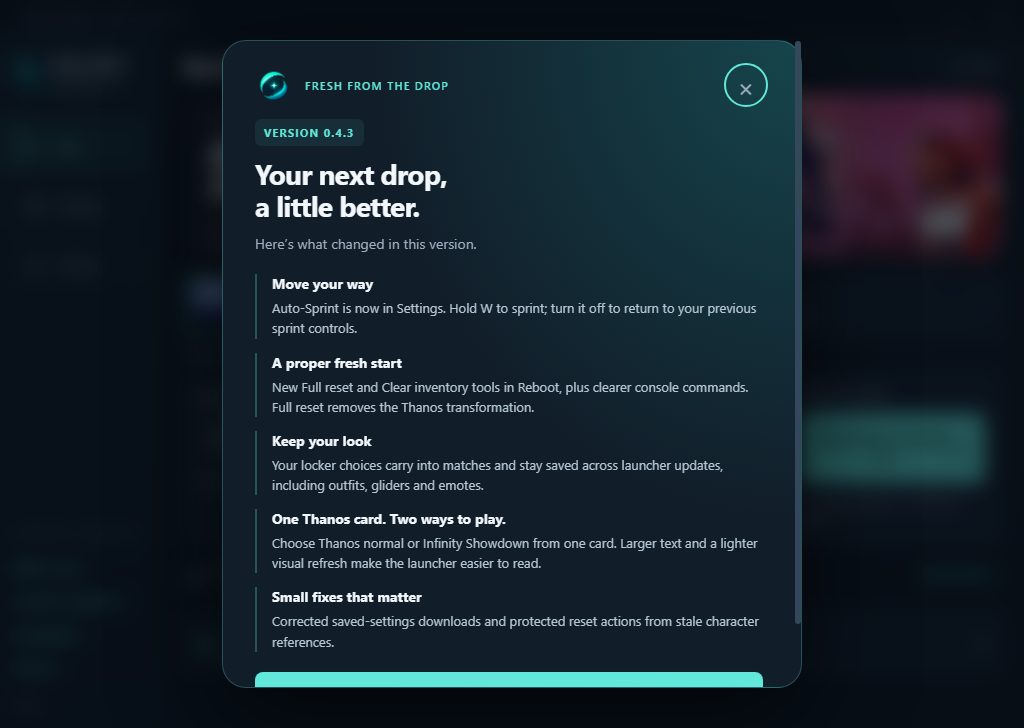
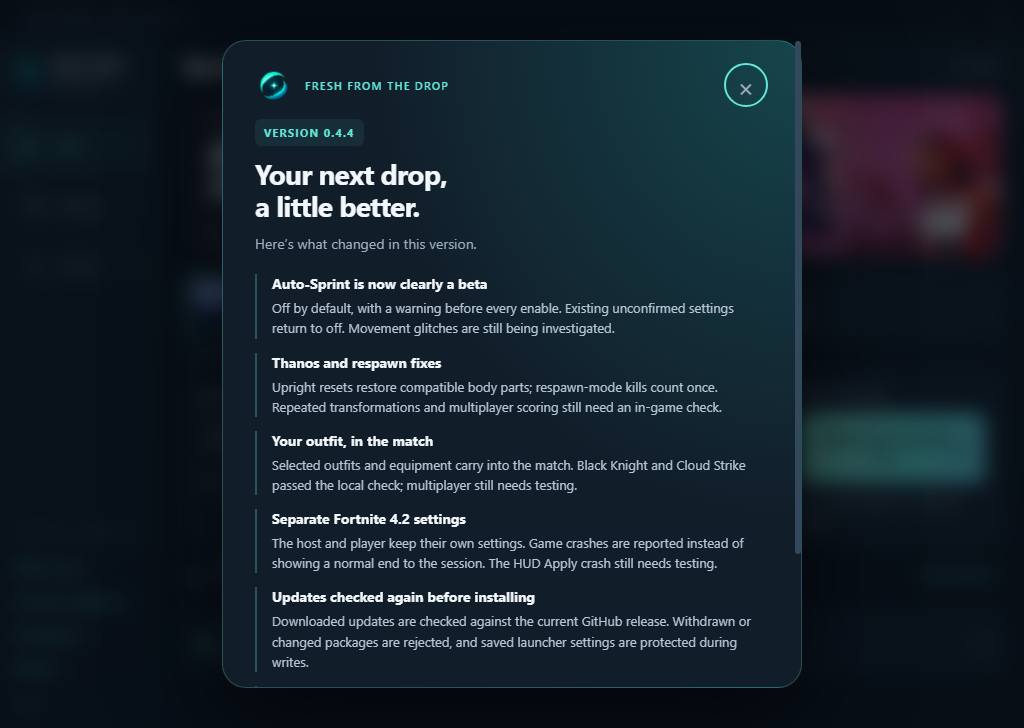
Record verified 0.4.4 packages and refresh test previews

diff --git a/AUDIT_044.md b/AUDIT_044.md
@@ -12,10 +12,10 @@ User objective (2026-11-04): review the existing launcher and gameplay code broa
 | Auto-Sprint movement/input audit | Owner confirms normal movement with feature off. Earlier correction remained unsuccessful. Original 4.2 input config binds F6 to HotbarKeyF6 and PickerNull; current correction reserves default-unbound F12 and checks custom conflicts. Helper/input restoration checks pass. Live movement remains unverified. |
 | Thanos transformation and repeated reset | Native commit `ccabd36` uses upright yaw-only reset/teleport transforms, resolves complete compatible parts before applying them, retains the last valid normal snapshot, guards stale possession acknowledgements and verifies Gauntlet cleanup. Compilation and both native rules suites passed. Independent review found no actionable regression. Repeated in-game transform/reset verification is still required. |
 | HUD Scale / Apply crash | Original video and minidump preserved locally; executable RVA 0x18c16c9 reads an array with index 0x7fffffff. Dump omits originating heap objects; cause not established. Per-role 4.2 settings preparation is code-tested, but the game's `-UserDir` behavior and the HUD crash remain live-unverified. Compare with Auto-Sprint off before attributing a fix. |
-| Broader launcher correctness review | Reviewed updater, download/session lifecycle, process cleanup, backend and persistence. Implemented current-release/checksum revalidation before cached-update installation, exact installer process-identity checks, atomic preference writes and durable errors on write failures. Unexpected game exits surface as errors; optional sprint-helper failure leaves the game running. Regression tests pass; final package validation is pending. |
+| Broader launcher correctness review | Reviewed updater, download/session lifecycle, process cleanup, backend and persistence. Implemented current-release/checksum revalidation before cached-update installation, exact installer process-identity checks, atomic preference writes and durable errors on write failures. Unexpected game exits surface as errors; optional sprint-helper failure leaves the game running. Regression tests and final package/update validation pass; live gameplay remains pending. |
 | Improve design/clarity | Implemented clearer Settings/selection styling with restrained teal highlights; larger text, existing logo, shared Thanos selector and rounded changelog retained. Choosing Showdown preserves Solo. Ordinary Thanos copy does not promise a falling animation. Hidden previews visually inspected; 19 UI tests pass. Research references are recorded below. |
 | Retain confirmed behavior | Clear inventory and practice respawn were confirmed on earlier builds; recheck after the native pose/loadout changes. Keep the existing 20-second random Showdown reassignment including all ready players. The separate bot prototype remains excluded. |
-| Build, source and release verification | Current local suite: 82 Node/native-helper checks and 19 hidden UI tests passed. Native CI `41856450087` succeeded for `ccabd36`; artifact and DLL checksums verified and pinned. Final combined desktop CI/package evidence and owner gameplay confirmation remain pending. Stable release is still 0.4.2. |
+| Build, source and release verification | 82 Node/native-helper checks and 19 UI tests passed locally and in final desktop CI `41857658000` for `b8d4f18`. Native CI `41856450087` succeeded for `ccabd36`; DLL, archive and both EXE checksums are verified. Portable/NSIS startup and real upgrades passed. Owner gameplay confirmation remains pending. Stable release is still 0.4.2. |
 
 ## Verified artifacts and checks
 
@@ -24,8 +24,8 @@ User objective (2026-11-04): review the existing launcher and gameplay code broa
[1 lines of base64/hex data omitted]
 - `npm test`: **82/82 passed** on the final Windows rerun. The initial restricted run could not access a test fixture and was rerun with suitable filesystem access. The actual launch script is exercised using hidden harmless child processes with exit codes 0/7, including after an input-helper failure; process-handle retention fixes a verified PowerShell exit-status regression.
 - Hidden Electron regression suite: **19/19 passed**, 24.2 seconds, against the latest main-process changes. Beta consent, legacy migration, failed-save recovery, updates, mode selection, session/cancellation behavior and window-size layouts are covered. Home and Beta-dialog screenshots were inspected.
-- Earlier candidate `4079533` desktop workflow `41705646257` is historical evidence only. It does not validate the final current package. Final combined desktop CI, staged-payload checks and EXE provenance must be recorded separately before publication.
-- Combined launcher source `b59819be28f978f195da7ea4c949a0eab963c6c1` passed [desktop workflow 41854090367](https://github.com/UniverseMan12/Nova_launcher_4.2/actions/runs/41854090367): 82 code checks, 19 UI tests, 861 staged files, packaged/portable startup and real 0.4.2 → 0.4.4 portable/NSIS upgrades. This is interim package evidence; the subsequent native kill-credit/status follow-up still needs to be included in the final package.
+- Earlier candidate `4079533` desktop workflow `41705646257` is historical evidence only. It does not validate the final current package. Final combined desktop CI, staged-payload checks and EXE provenance are recorded separately in RELEASE_QA.md.
+- Combined launcher source `b59819be28f978f195da7ea4c949a0eab963c6c1` passed [desktop workflow 41854090367](https://github.com/UniverseMan12/Nova_launcher_4.2/actions/runs/41854090367): 82 code checks, 19 UI tests, 861 staged files, packaged/portable startup and real 0.4.2 → 0.4.4 portable/NSIS upgrades. This is interim package evidence. The final b8d4f18 package also includes the subsequent native kill-credit/status follow-up.
 - Native follow-up `ccabd36` fixes a confirmed early-return bug that skipped kill credit for handled respawn deaths. A per-life ledger suppresses duplicate credit; final elimination retains native handling. FullReset keeps a shield-restoration warning, and Reboot describes the 20-second delay. Independent review found no concrete regression; the compiled artifact above is verified and pinned. Multiplayer scoring remains to be checked in-game.
 
 ## Design references
@@ -34,11 +34,12 @@ Reviewed the official [Heroic site](https://heroicgameslauncher.com/), [Playnite
 
 ## Remaining validation
 
+- Final package evidence is recorded in `RELEASE_QA.md`: source `b8d4f18`, workflow `41857658000`, artifact `13338193037`, 861 verified payload files and both real update paths passed. The verified portable EXE was copied to the owner's `build/gameplay-test-044c` folder with a German test guide. The owner said they would test in about five minutes; no result has been inferred from that reply.
 - Owner checks normal movement/cosmetics with Beta off, then optionally tests repeated W start/stop, gliding, menus/console and window switching with Beta on.
 - Owner repeats Thanos → Full reset, Clear inventory, practice respawn and saved-spot return; verifies upright proportions, normal animation, health/shield, selected cosmetics and no remaining Gauntlet/duplicate body.
 - Owner tests HUD Scale / Apply with Beta off and confirms the actual per-role settings/log paths and persistence after restart. The crash is unresolved until this evidence exists.
 - Two-player validation checks remote cosmetics and Showdown death/respawn/reselection. Earlier owner-reported Hamachi success does not verify the current candidate.
-- Record final combined build/package evidence before publication. No stable 0.4.4 release has been published, and passing automation does not establish successful gameplay.
+- Publish only after the required gameplay evidence is resolved. No stable 0.4.4 release has been published, and passing automation does not establish successful gameplay.
 
 ## Known scope limits
 

diff --git a/RELEASE_QA.md b/RELEASE_QA.md
@@ -14,8 +14,10 @@
 - **Separate 4.2 settings:** `LegacyGameData` prepares independent client/server directories and imports only compatible display/quality values. Tests preserve the source file byte-for-byte, retain existing isolated settings and reject invalid roles/values. Startup no longer unconditionally forces a 1280×720 window. The `-UserDir` argument is passed to the game, but actual runtime selection and settings persistence need an owner test. This is not evidence that HUD Scale / Apply is fixed.
 - **Launcher reliability:** saved settings/update preferences use atomic replacement. Preference or log failures remain errors and cancel pending work; later helper messages cannot turn them into success. Unexpected game exit codes are surfaced, while optional sprint-helper failure leaves the game running. Cached updates are revalidated before installation against the latest offer and checksum; withdrawn/changed releases or failed online checks do not replace the running launcher. Installer markers check process creation time as well as PID. The updater offers newer versions only, so it does not automatically downgrade 0.4.3.
 - **Design and mode selection:** clearer settings and selected states retain larger text, the teal logo, shared Thanos selector and rounded changelog. Selecting Infinity Showdown preserves Solo rather than silently choosing Host friends. Ordinary Thanos copy uses neutral Gauntlet wording and makes no promise of an original falling animation. References reviewed for navigation/install clarity were [Heroic](https://heroicgameslauncher.com/), [Playnite](https://playnite.link/) and [Reboot Launcher](https://github.com/Auties00/Reboot-Launcher); no branding or artwork was copied.
-- **Still pending:** combined desktop CI/package validation for this final candidate; owner playtests below. No new stable-release assets have been published. The separate bot-lobby prototype remains excluded.
-- **Interim package validation:** source `b59819b` passed [desktop workflow 41854090367](https://github.com/UniverseMan12/Nova_launcher_4.2/actions/runs/41854090367), including 82 code checks, 19 UI checks, 861 verified payload files, packaged/portable startup and real 0.4.2 → 0.4.4 updates for portable and NSIS. Subsequent native follow-up `ccabd36` preserves once-per-life kill credit for handled respawns and accurate reset warnings; its new DLL must be pinned before final package verification.
[2 lines of base64/hex data omitted]
+- **Still pending:** owner playtests below. No new stable-release assets have been published. The separate bot-lobby prototype remains excluded. GitHub still returns 404 for release v0.4.3; v0.4.2 remains the current regular release.
+- **Interim package validation:** source `b59819b` passed [desktop workflow 41854090367](https://github.com/UniverseMan12/Nova_launcher_4.2/actions/runs/41854090367), including 82 code checks, 19 UI checks, 861 verified payload files, packaged/portable startup and real 0.4.2 → 0.4.4 updates for portable and NSIS. Subsequent native follow-up `ccabd36` preserves once-per-life kill credit for handled respawns and accurate reset warnings; its verified DLL is included in the final b8d4f18 package above.
 
 ### Required owner playtests
 

diff --git a/RELEASE_NOTES.md b/RELEASE_NOTES.md
@@ -17,7 +17,7 @@ The saved local locker, Clear inventory, practice respawn and Showdown's 20-seco
 
 ## Verified so far
 
-All **82 Node/native-helper checks** and **19 hidden desktop UI tests passed** locally. UI coverage includes beta consent/migration, failed-save recovery, update controls, cancellation, mode selection and supported window sizes. Settings migration checks compatible values, separate roles, invalid input and preservation of existing files. The actual game-launch script was tested with harmless hidden child processes for normal/error exits and sprint-helper failure recovery. Native source `ccabd36` compiled successfully in [build 41856450087](https://github.com/UniverseMan12/Nova_launcher_4.2/actions/runs/41856450087), including both C++ rules suites. These results do not prove correct Fortnite animation, replication or HUD behavior. Combined desktop packaging/CI verification for the final candidate remains pending.
+All **82 Node/native-helper checks** and **19 desktop UI tests passed**, both locally and in [final desktop build 41857658000](https://github.com/UniverseMan12/Nova_launcher_4.2/actions/runs/41857658000) for source `b8d4f18`. Packaged and portable startup checks passed, as did real 0.4.2 → 0.4.4 updates for portable and installed editions, preserving settings and paths. UI coverage includes beta consent/migration, failed-save recovery, cancellation, mode selection and supported window sizes. The actual game-launch script was tested with harmless hidden children for normal/error exits and sprint-helper failure recovery. Native source `ccabd36` compiled in [build 41856450087](https://github.com/UniverseMan12/Nova_launcher_4.2/actions/runs/41856450087), including both C++ rules suites. Downloaded EXEs and the native DLL match their recorded checksums. These results do not prove correct Fortnite animation, replication or HUD behavior; the owner playtest remains pending.
 
 The owner's earlier video showed Black Knight, Cloud Strike and the selected pickaxe/contrail in the match. It also showed the remaining movement glitches and HUD Apply crash. With Auto-Sprint off, the owner reports normal movement.
 

diff --git a/README.md b/README.md
@@ -6,7 +6,7 @@
 
 ![NOVA DROP with Classic, Thanos and Infinity Showdown](docs/launcher-preview.png)
 
-*Launcher preview from the withdrawn 0.4.3 build. The 0.4.4 test candidate retains its larger text, shared Thanos selector and update changelog while addressing the reported gameplay problems. Stable downloads below point to 0.4.2.*
+*Verified 0.4.4 test-build preview, with the shared Thanos selector, clearer settings and update changelog. Gameplay confirmation is still pending. Stable downloads below point to 0.4.2.*
 
 ## Controls and updates in the 0.4.4 test candidate
 
